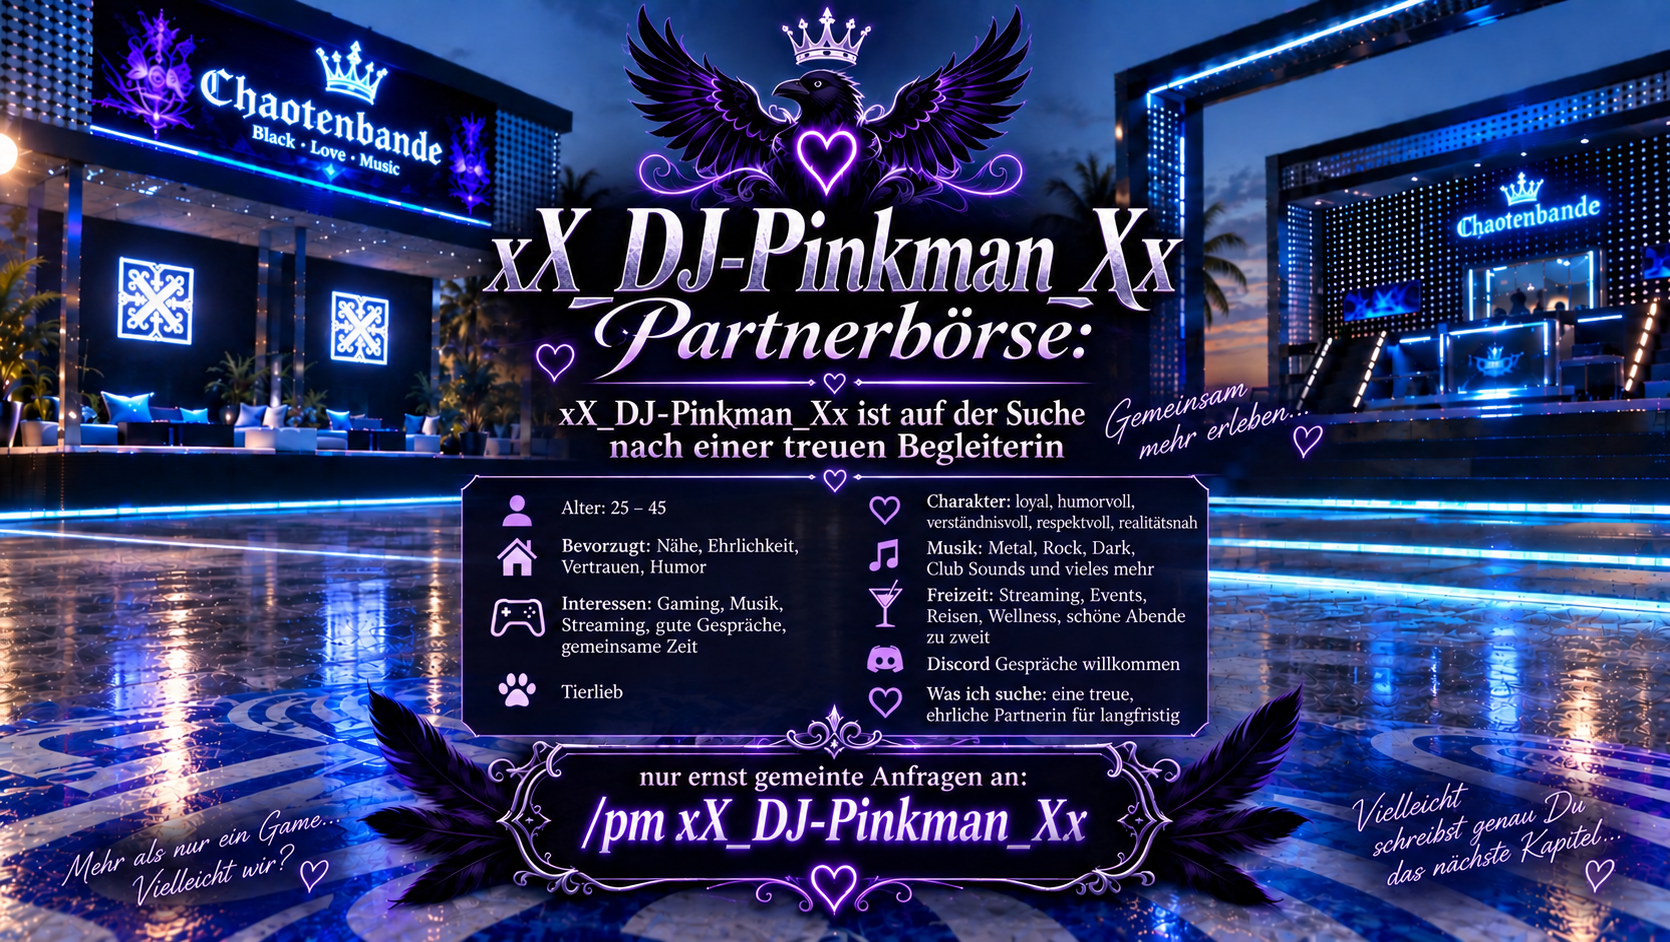
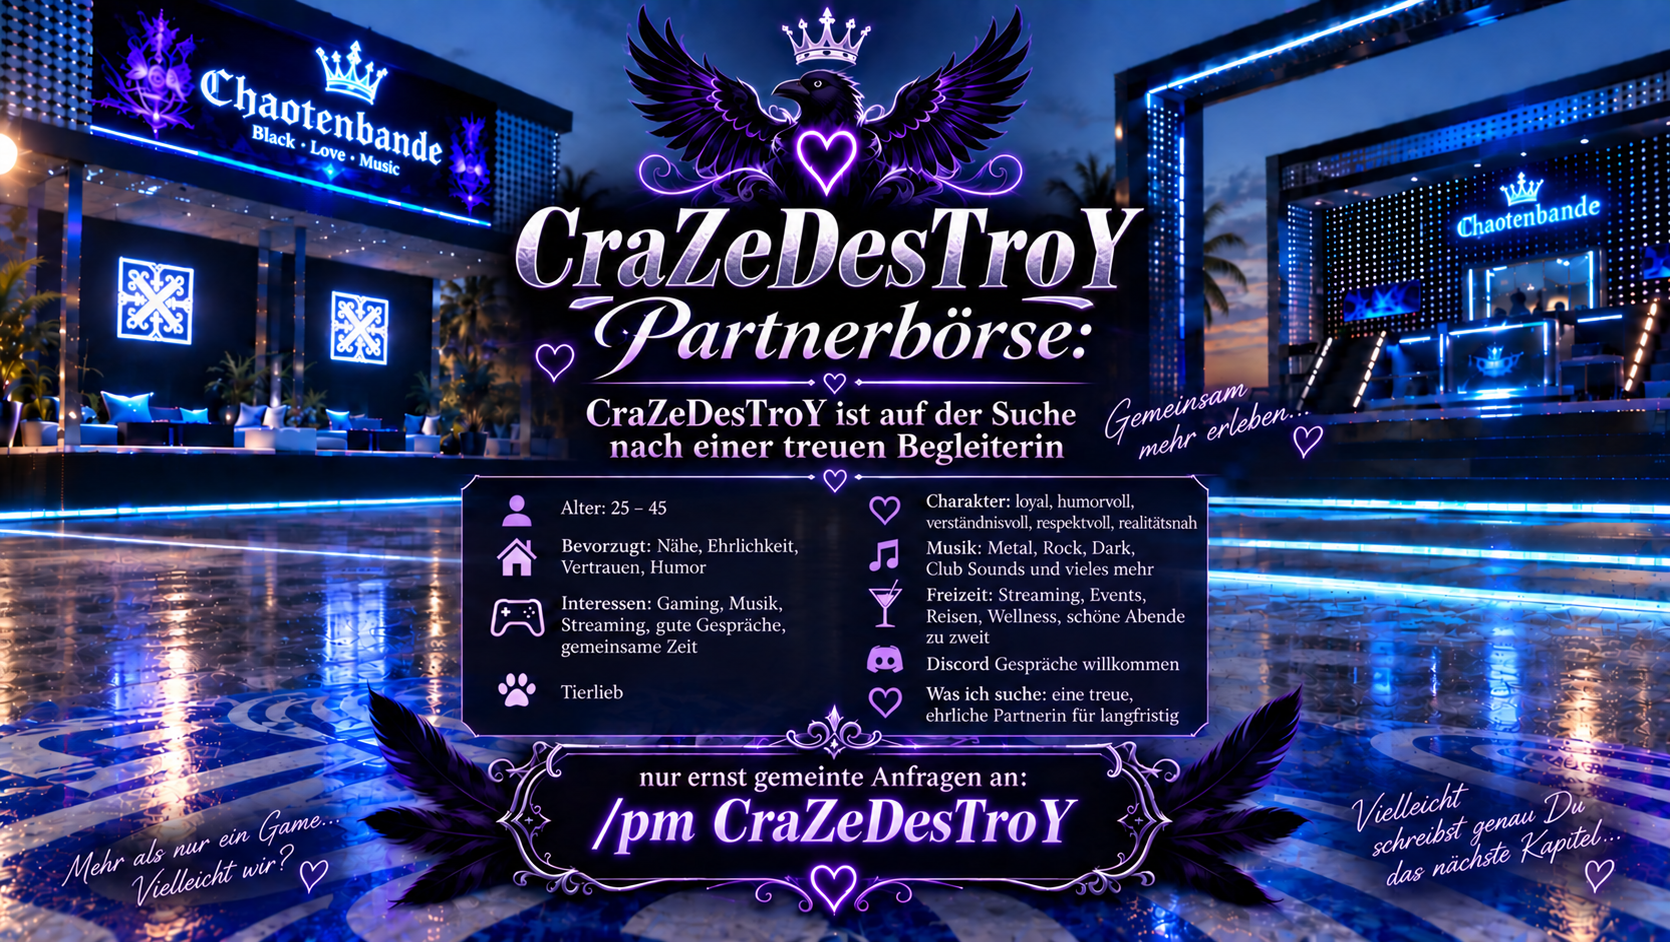
Rename partner profile to CraZeDesTroY

diff --git a/docs/index.html b/docs/index.html
@@ -74,18 +74,18 @@
         </figure>
         <div class="partnerCopy">
           <p class="eyebrow">Partnerbörse</p>
-          <h2 id="partnerTitle">xX_DJ-Pinkman_Xx sucht<br><em>eine treue Begleiterin</em></h2>
+          <h2 id="partnerTitle">CraZeDesTroY sucht<br><em>eine treue Begleiterin</em></h2>
           <p class="partnerRotator"><span class="rotLine is-active">Gemeinsam mehr erleben…</span><span class="rotLine">Mehr als nur ein Game… Vielleicht wir?</span><span class="rotLine">Vielleicht schreibt genau Du das nächste Kapitel…</span></p>
           <p class="partnerLead">Es geht um Nähe, Ehrlichkeit, Vertrauen und Humor – um Gaming, Musik, Streaming, Reisen und gute Gespräche, gern auch auf Discord. Er kocht leidenschaftlich gern, macht selbst Musik und quält andere Leute mit einem Augenzwinkern und einer guten Portion schwarzem Humor – langweilig wird es mit ihm also garantiert nicht. Gesucht wird eine treue, ehrliche und verständnisvolle Partnerin für langfristig.</p>
           <p class="partnerAsk">Nur ernst gemeinte Anfragen an:</p>
           <div class="pmBox">
-            <code class="pmCommand" data-text="/pm xX_DJ-Pinkman_Xx" aria-label="/pm xX_DJ-Pinkman_Xx"><span class="pmTyped" aria-hidden="true">/pm xX_DJ-Pinkman_Xx</span><span class="pmRest" aria-hidden="true"></span></code>
+            <code class="pmCommand" data-text="/pm CraZeDesTroY" aria-label="/pm CraZeDesTroY"><span class="pmTyped" aria-hidden="true">/pm CraZeDesTroY</span><span class="pmRest" aria-hidden="true"></span></code>
             <button class="pmCopy" type="button">Kopieren</button>
           </div>
         </div>
       </div>
-      <a class="partnerPoster" href="partnerboerse-poster.png?v=20261005" target="_blank" rel="noreferrer">
-        <img src="partnerboerse-poster.png?v=20261005" width="1669" height="942" loading="lazy" alt="Partnerbörse-Plakat: xX_DJ-Pinkman_Xx ist auf der Suche nach einer treuen, ehrlichen und verständnisvollen Begleiterin. Nur ernst gemeinte Anfragen an /pm xX_DJ-Pinkman_Xx.">
+      <a class="partnerPoster" href="partnerboerse-poster.png?v=20261005b" target="_blank" rel="noreferrer">
+        <img src="partnerboerse-poster.png?v=20261005b" width="1669" height="942" loading="lazy" alt="Partnerbörse-Plakat: CraZeDesTroY ist auf der Suche nach einer treuen, ehrlichen und verständnisvollen Begleiterin. Nur ernst gemeinte Anfragen an /pm CraZeDesTroY.">
         <span>Zum Vergrößern anklicken</span>
       </a>
     </section>
@@ -132,10 +132,10 @@
   </main>
   <script>
     const translations = {
-      de:{nav:["Der Stamm","Erinnerung"],hero:["Wir feiern. Wir leben. Wir sind die Chaoten Bande.","Nächte, die","Geschichte schreiben.","Die Chaoten Bande bringt Menschen, Musik und magische Locations zusammen – mit großartigen DJs & DJanes und einer Community, die jede Nacht zu etwas Besonderem macht.","Entdecke unsere Welt"],statement:["Eine Bande","Drei legendäre Orte","Unendliche Nächte"],locHead:["Wo Chaos zu Magie wird","Drei Welten.","Ein Gefühl."],loc:["Neon. Bass. Ekstase.","Dunkel. Elektrisch. Grenzenlos.","Tropisch. Leuchtend. Frei."],body:"Ob pulsierender Dancefloor, futuristische Black-Level-Nacht oder tropische Blue Lagoon: Die Chaoten Bande ist Gastgeber für Partys, bei denen Beats verbinden, Freundschaften entstehen und der Alltag draußen bleibt. Unsere DJs & DJanes liefern den Soundtrack – ihr macht die Nacht legendär.",discord:["Bleib mit der Bande verbunden","Komm auf unseren","Discord-Server","Triff die Chaoten Bande, erfahre von kommenden Partys und Locations und werde Teil unserer Community.","Discord-Server beitreten"],tribe:["Das Herz jeder Nacht","Der Stamm der","Chaoten Bande","Vier Namen, ein Herzschlag. Gemeinsam schaffen sie Räume voller Freiheit, Respekt, Musik und echter Verbundenheit. Wer einmal mit der Chaoten Bande gefeiert hat, bleibt nicht einfach Gast – sondern wird Teil der Geschichte."],roles:["Feuer & Leidenschaft","Energie & Euphorie","Charme & Magie","Stärke & Loyalität"],memory:["Für immer Teil unseres Sounds","In Erinnerung an","Manche Stimmen verstummen – doch ihre Melodie bleibt in unseren Herzen und in jeder Nacht, die wir gemeinsam feiern.","Unvergessen. Unendlich. Immer dabei."],footer:["Wir feiern. Wir leben. Wir sind die Chaoten Bande.","Mit Herz, Bass und Erinnerung."],partner:{nav:"Partnerbörse",eye:"Partnerbörse",h:["xX_DJ-Pinkman_Xx sucht","eine treue Begleiterin"],rot:["Gemeinsam mehr erleben…","Mehr als nur ein Game… Vielleicht wir?","Vielleicht schreibt genau Du das nächste Kapitel…"],lead:"Es geht um Nähe, Ehrlichkeit, Vertrauen und Humor – um Gaming, Musik, Streaming, Reisen und gute Gespräche, gern auch auf Discord. Er kocht leidenschaftlich gern, macht selbst Musik und quält andere Leute mit einem Augenzwinkern und einer guten Portion schwarzem Humor – langweilig wird es mit ihm also garantiert nicht. Gesucht wird eine treue, ehrliche und verständnisvolle Partnerin für langfristig.",ask:"Nur ernst gemeinte Anfragen an:",copy:"Kopieren",copied:"Kopiert ✓",poster:"Zum Vergrößern anklicken"},close:"Bild schließen",large:"groß anzeigen",noImage:"noch kein Bild vorhanden"},
-      en:{nav:["The Crew","In Memory"],hero:["We celebrate. We live. We are the Chaoten Bande.","Nights that","make history.","The Chaoten Bande brings people, music and magical locations together – with amazing DJs and a community that turns every night into something special.","Discover our world"],statement:["One crew","Three legendary places","Endless nights"],locHead:["Where chaos becomes magic","Three worlds.","One feeling."],loc:["Neon. Bass. Ecstasy.","Dark. Electric. Limitless.","Tropical. Luminous. Free."],body:"Whether a pulsating dance floor, a futuristic Black Level night or the tropical Blue Lagoon: the Chaoten Bande hosts parties where beats connect people, friendships begin and everyday life stays outside. Our DJs deliver the soundtrack – you make the night legendary.",discord:["Stay connected with the crew","Join our","Discord server","Meet the Chaoten Bande, hear about upcoming parties and locations, and become part of our community.","Join the Discord server"],tribe:["The heart of every night","The crew of the","Chaoten Bande","Four names, one heartbeat. Together they create spaces filled with freedom, respect, music and genuine connection. Once you celebrate with the Chaoten Bande, you become part of the story."],roles:["Fire & Passion","Energy & Euphoria","Charm & Magic","Strength & Loyalty"],memory:["Forever part of our sound","In memory of","Some voices fall silent – but their melody remains in our hearts and in every night we celebrate together.","Unforgotten. Infinite. Always with us."],footer:["We celebrate. We live. We are the Chaoten Bande.","With heart, bass and remembrance."],partner:{nav:"Partner Search",eye:"Partner Search",h:["xX_DJ-Pinkman_Xx is looking for","a loyal companion"],rot:["Experience more together…","More than just a game… maybe us?","Maybe you will write the next chapter…"],lead:"It is about closeness, honesty, trust and humour – about gaming, music, streaming, travel and good conversations, Discord chats very welcome. He loves cooking, makes his own music and enjoys playfully tormenting people with a wink and a healthy dose of dark humour – life with him is guaranteed never to be boring. Looking for a loyal, honest and understanding partner for the long term.",ask:"Serious inquiries only, please message:",copy:"Copy",copied:"Copied ✓",poster:"Click to enlarge"},close:"Close image",large:"show large",noImage:"no image available yet"},
-      it:{nav:["Il gruppo","In ricordo"],hero:["Festeggiamo. Viviamo. Siamo la Chaoten Bande.","Notti che","fanno la storia.","La Chaoten Bande unisce persone, musica e location magiche – con fantastici DJ e una community che rende speciale ogni notte.","Scopri il nostro mondo"],statement:["Un gruppo","Tre luoghi leggendari","Notti infinite"],locHead:["Dove il caos diventa magia","Tre mondi.","Un solo sentimento."],loc:["Neon. Bassi. Estasi.","Oscuro. Elettrico. Senza limiti.","Tropicale. Luminoso. Libero."],body:"Tra pista pulsante, notte futuristica al Black Level e la tropicale Blue Lagoon, la Chaoten Bande ospita feste in cui i beat uniscono, nascono amicizie e la vita quotidiana resta fuori. I nostri DJ creano la colonna sonora – voi rendete la notte leggendaria.",discord:["Resta connesso con il gruppo","Entra nel nostro","server Discord","Incontra la Chaoten Bande, scopri le prossime feste e location ed entra nella nostra community.","Entra nel server Discord"],tribe:["Il cuore di ogni notte","Il gruppo della","Chaoten Bande","Quattro nomi, un solo battito. Insieme creano spazi pieni di libertà, rispetto, musica e legami autentici. Chi festeggia con la Chaoten Bande diventa parte della storia."],roles:["Fuoco & Passione","Energia & Euforia","Fascino & Magia","Forza & Lealtà"],memory:["Per sempre parte del nostro sound","In ricordo di","Alcune voci tacciono – ma la loro melodia rimane nei nostri cuori e in ogni notte che festeggiamo insieme.","Indimenticabile. Infinito. Sempre con noi."],footer:["Festeggiamo. Viviamo. Siamo la Chaoten Bande.","Con cuore, bassi e ricordo."],partner:{nav:"Cerco partner",eye:"Cerco partner",h:["xX_DJ-Pinkman_Xx cerca","una compagna fedele"],rot:["Vivere di più, insieme…","Più di un semplice gioco… forse noi?","Forse sarai proprio tu a scrivere il prossimo capitolo…"],lead:"Si parla di vicinanza, sincerità, fiducia e umorismo – di gaming, musica, streaming, viaggi e belle conversazioni, anche su Discord. Ama cucinare, crea la propria musica e adora tormentare scherzosamente gli altri con una strizzata d’occhio e una buona dose di umorismo nero – con lui non ci si annoia mai. Si cerca una partner fedele, sincera e comprensiva per una relazione duratura.",ask:"Solo richieste serie a:",copy:"Copia",copied:"Copiato ✓",poster:"Clicca per ingrandire"},close:"Chiudi immagine",large:"mostra grande",noImage:"immagine non ancora disponibile"},
-      es:{nav:["La banda","En memoria"],hero:["Celebramos. Vivimos. Somos la Chaoten Bande.","Noches que","hacen historia.","La Chaoten Bande reúne personas, música y lugares mágicos, con DJs increíbles y una comunidad que convierte cada noche en algo especial.","Descubre nuestro mundo"],statement:["Una banda","Tres lugares legendarios","Noches infinitas"],locHead:["Donde el caos se vuelve magia","Tres mundos.","Un sentimiento."],loc:["Neón. Bajos. Éxtasis.","Oscuro. Eléctrico. Sin límites.","Tropical. Luminoso. Libre."],body:"Ya sea una pista vibrante, una noche futurista en Black Level o la tropical Blue Lagoon: la Chaoten Bande organiza fiestas donde los ritmos conectan, nacen amistades y la rutina queda fuera. Nuestros DJs ponen la banda sonora – vosotros hacéis legendaria la noche.",discord:["Sigue conectado con la banda","Únete a nuestro","servidor de Discord","Conoce a la Chaoten Bande, descubre próximas fiestas y lugares y forma parte de nuestra comunidad.","Unirse al servidor de Discord"],tribe:["El corazón de cada noche","La banda de","Chaoten Bande","Cuatro nombres, un solo latido. Juntos crean espacios llenos de libertad, respeto, música y conexión auténtica. Quien celebra con la Chaoten Bande pasa a formar parte de la historia."],roles:["Fuego & Pasión","Energía & Euforia","Encanto & Magia","Fuerza & Lealtad"],memory:["Para siempre parte de nuestro sonido","En memoria de","Algunas voces se apagan, pero su melodía permanece en nuestros corazones y en cada noche que celebramos juntos.","Inolvidable. Infinito. Siempre con nosotros."],footer:["Celebramos. Vivimos. Somos la Chaoten Bande.","Con corazón, bajos y recuerdo."],partner:{nav:"Buscar pareja",eye:"Buscar pareja",h:["xX_DJ-Pinkman_Xx busca","una compañera fiel"],rot:["Vivir más, juntos…","Más que un simple juego… ¿quizás nosotros?","Quizás seas tú quien escriba el próximo capítulo…"],lead:"Se trata de cercanía, honestidad, confianza y humor – de gaming, música, streaming, viajes y buenas conversaciones, también por Discord. Le encanta cocinar, crea su propia música y disfruta atormentando juguetonamente a los demás con un guiño y una buena dosis de humor negro; con él el aburrimiento no tiene cabida. Se busca una pareja fiel, sincera y comprensiva para una relación duradera.",ask:"Solo consultas serias a:",copy:"Copiar",copied:"Copiado ✓",poster:"Haz clic para ampliar"},close:"Cerrar imagen",large:"mostrar grande",noImage:"imagen aún no disponible"}
+      de:{nav:["Der Stamm","Erinnerung"],hero:["Wir feiern. Wir leben. Wir sind die Chaoten Bande.","Nächte, die","Geschichte schreiben.","Die Chaoten Bande bringt Menschen, Musik und magische Locations zusammen – mit großartigen DJs & DJanes und einer Community, die jede Nacht zu etwas Besonderem macht.","Entdecke unsere Welt"],statement:["Eine Bande","Drei legendäre Orte","Unendliche Nächte"],locHead:["Wo Chaos zu Magie wird","Drei Welten.","Ein Gefühl."],loc:["Neon. Bass. Ekstase.","Dunkel. Elektrisch. Grenzenlos.","Tropisch. Leuchtend. Frei."],body:"Ob pulsierender Dancefloor, futuristische Black-Level-Nacht oder tropische Blue Lagoon: Die Chaoten Bande ist Gastgeber für Partys, bei denen Beats verbinden, Freundschaften entstehen und der Alltag draußen bleibt. Unsere DJs & DJanes liefern den Soundtrack – ihr macht die Nacht legendär.",discord:["Bleib mit der Bande verbunden","Komm auf unseren","Discord-Server","Triff die Chaoten Bande, erfahre von kommenden Partys und Locations und werde Teil unserer Community.","Discord-Server beitreten"],tribe:["Das Herz jeder Nacht","Der Stamm der","Chaoten Bande","Vier Namen, ein Herzschlag. Gemeinsam schaffen sie Räume voller Freiheit, Respekt, Musik und echter Verbundenheit. Wer einmal mit der Chaoten Bande gefeiert hat, bleibt nicht einfach Gast – sondern wird Teil der Geschichte."],roles:["Feuer & Leidenschaft","Energie & Euphorie","Charme & Magie","Stärke & Loyalität"],memory:["Für immer Teil unseres Sounds","In Erinnerung an","Manche Stimmen verstummen – doch ihre Melodie bleibt in unseren Herzen und in jeder Nacht, die wir gemeinsam feiern.","Unvergessen. Unendlich. Immer dabei."],footer:["Wir feiern. Wir leben. Wir sind die Chaoten Bande.","Mit Herz, Bass und Erinnerung."],partner:{nav:"Partnerbörse",eye:"Partnerbörse",h:["CraZeDesTroY sucht","eine treue Begleiterin"],rot:["Gemeinsam mehr erleben…","Mehr als nur ein Game… Vielleicht wir?","Vielleicht schreibt genau Du das nächste Kapitel…"],lead:"Es geht um Nähe, Ehrlichkeit, Vertrauen und Humor – um Gaming, Musik, Streaming, Reisen und gute Gespräche, gern auch auf Discord. Er kocht leidenschaftlich gern, macht selbst Musik und quält andere Leute mit einem Augenzwinkern und einer guten Portion schwarzem Humor – langweilig wird es mit ihm also garantiert nicht. Gesucht wird eine treue, ehrliche und verständnisvolle Partnerin für langfristig.",ask:"Nur ernst gemeinte Anfragen an:",copy:"Kopieren",copied:"Kopiert ✓",poster:"Zum Vergrößern anklicken"},close:"Bild schließen",large:"groß anzeigen",noImage:"noch kein Bild vorhanden"},
+      en:{nav:["The Crew","In Memory"],hero:["We celebrate. We live. We are the Chaoten Bande.","Nights that","make history.","The Chaoten Bande brings people, music and magical locations together – with amazing DJs and a community that turns every night into something special.","Discover our world"],statement:["One crew","Three legendary places","Endless nights"],locHead:["Where chaos becomes magic","Three worlds.","One feeling."],loc:["Neon. Bass. Ecstasy.","Dark. Electric. Limitless.","Tropical. Luminous. Free."],body:"Whether a pulsating dance floor, a futuristic Black Level night or the tropical Blue Lagoon: the Chaoten Bande hosts parties where beats connect people, friendships begin and everyday life stays outside. Our DJs deliver the soundtrack – you make the night legendary.",discord:["Stay connected with the crew","Join our","Discord server","Meet the Chaoten Bande, hear about upcoming parties and locations, and become part of our community.","Join the Discord server"],tribe:["The heart of every night","The crew of the","Chaoten Bande","Four names, one heartbeat. Together they create spaces filled with freedom, respect, music and genuine connection. Once you celebrate with the Chaoten Bande, you become part of the story."],roles:["Fire & Passion","Energy & Euphoria","Charm & Magic","Strength & Loyalty"],memory:["Forever part of our sound","In memory of","Some voices fall silent – but their melody remains in our hearts and in every night we celebrate together.","Unforgotten. Infinite. Always with us."],footer:["We celebrate. We live. We are the Chaoten Bande.","With heart, bass and remembrance."],partner:{nav:"Partner Search",eye:"Partner Search",h:["CraZeDesTroY is looking for","a loyal companion"],rot:["Experience more together…","More than just a game… maybe us?","Maybe you will write the next chapter…"],lead:"It is about closeness, honesty, trust and humour – about gaming, music, streaming, travel and good conversations, Discord chats very welcome. He loves cooking, makes his own music and enjoys playfully tormenting people with a wink and a healthy dose of dark humour – life with him is guaranteed never to be boring. Looking for a loyal, honest and understanding partner for the long term.",ask:"Serious inquiries only, please message:",copy:"Copy",copied:"Copied ✓",poster:"Click to enlarge"},close:"Close image",large:"show large",noImage:"no image available yet"},
+      it:{nav:["Il gruppo","In ricordo"],hero:["Festeggiamo. Viviamo. Siamo la Chaoten Bande.","Notti che","fanno la storia.","La Chaoten Bande unisce persone, musica e location magiche – con fantastici DJ e una community che rende speciale ogni notte.","Scopri il nostro mondo"],statement:["Un gruppo","Tre luoghi leggendari","Notti infinite"],locHead:["Dove il caos diventa magia","Tre mondi.","Un solo sentimento."],loc:["Neon. Bassi. Estasi.","Oscuro. Elettrico. Senza limiti.","Tropicale. Luminoso. Libero."],body:"Tra pista pulsante, notte futuristica al Black Level e la tropicale Blue Lagoon, la Chaoten Bande ospita feste in cui i beat uniscono, nascono amicizie e la vita quotidiana resta fuori. I nostri DJ creano la colonna sonora – voi rendete la notte leggendaria.",discord:["Resta connesso con il gruppo","Entra nel nostro","server Discord","Incontra la Chaoten Bande, scopri le prossime feste e location ed entra nella nostra community.","Entra nel server Discord"],tribe:["Il cuore di ogni notte","Il gruppo della","Chaoten Bande","Quattro nomi, un solo battito. Insieme creano spazi pieni di libertà, rispetto, musica e legami autentici. Chi festeggia con la Chaoten Bande diventa parte della storia."],roles:["Fuoco & Passione","Energia & Euforia","Fascino & Magia","Forza & Lealtà"],memory:["Per sempre parte del nostro sound","In ricordo di","Alcune voci tacciono – ma la loro melodia rimane nei nostri cuori e in ogni notte che festeggiamo insieme.","Indimenticabile. Infinito. Sempre con noi."],footer:["Festeggiamo. Viviamo. Siamo la Chaoten Bande.","Con cuore, bassi e ricordo."],partner:{nav:"Cerco partner",eye:"Cerco partner",h:["CraZeDesTroY cerca","una compagna fedele"],rot:["Vivere di più, insieme…","Più di un semplice gioco… forse noi?","Forse sarai proprio tu a scrivere il prossimo capitolo…"],lead:"Si parla di vicinanza, sincerità, fiducia e umorismo – di gaming, musica, streaming, viaggi e belle conversazioni, anche su Discord. Ama cucinare, crea la propria musica e adora tormentare scherzosamente gli altri con una strizzata d’occhio e una buona dose di umorismo nero – con lui non ci si annoia mai. Si cerca una partner fedele, sincera e comprensiva per una relazione duratura.",ask:"Solo richieste serie a:",copy:"Copia",copied:"Copiato ✓",poster:"Clicca per ingrandire"},close:"Chiudi immagine",large:"mostra grande",noImage:"immagine non ancora disponibile"},
+      es:{nav:["La banda","En memoria"],hero:["Celebramos. Vivimos. Somos la Chaoten Bande.","Noches que","hacen historia.","La Chaoten Bande reúne personas, música y lugares mágicos, con DJs increíbles y una comunidad que convierte cada noche en algo especial.","Descubre nuestro mundo"],statement:["Una banda","Tres lugares legendarios","Noches infinitas"],locHead:["Donde el caos se vuelve magia","Tres mundos.","Un sentimiento."],loc:["Neón. Bajos. Éxtasis.","Oscuro. Eléctrico. Sin límites.","Tropical. Luminoso. Libre."],body:"Ya sea una pista vibrante, una noche futurista en Black Level o la tropical Blue Lagoon: la Chaoten Bande organiza fiestas donde los ritmos conectan, nacen amistades y la rutina queda fuera. Nuestros DJs ponen la banda sonora – vosotros hacéis legendaria la noche.",discord:["Sigue conectado con la banda","Únete a nuestro","servidor de Discord","Conoce a la Chaoten Bande, descubre próximas fiestas y lugares y forma parte de nuestra comunidad.","Unirse al servidor de Discord"],tribe:["El corazón de cada noche","La banda de","Chaoten Bande","Cuatro nombres, un solo latido. Juntos crean espacios llenos de libertad, respeto, música y conexión auténtica. Quien celebra con la Chaoten Bande pasa a formar parte de la historia."],roles:["Fuego & Pasión","Energía & Euforia","Encanto & Magia","Fuerza & Lealtad"],memory:["Para siempre parte de nuestro sonido","En memoria de","Algunas voces se apagan, pero su melodía permanece en nuestros corazones y en cada noche que celebramos juntos.","Inolvidable. Infinito. Siempre con nosotros."],footer:["Celebramos. Vivimos. Somos la Chaoten Bande.","Con corazón, bajos y recuerdo."],partner:{nav:"Buscar pareja",eye:"Buscar pareja",h:["CraZeDesTroY busca","una compañera fiel"],rot:["Vivir más, juntos…","Más que un simple juego… ¿quizás nosotros?","Quizás seas tú quien escriba el próximo capítulo…"],lead:"Se trata de cercanía, honestidad, confianza y humor – de gaming, música, streaming, viajes y buenas conversaciones, también por Discord. Le encanta cocinar, crea su propia música y disfruta atormentando juguetonamente a los demás con un guiño y una buena dosis de humor negro; con él el aburrimiento no tiene cabida. Se busca una pareja fiel, sincera y comprensiva para una relación duradera.",ask:"Solo consultas serias a:",copy:"Copiar",copied:"Copiado ✓",poster:"Haz clic para ampliar"},close:"Cerrar imagen",large:"mostrar grande",noImage:"imagen aún no disponible"}
     };
     function applyLanguage(lang) {
       const t = translations[lang] || translations.de;
